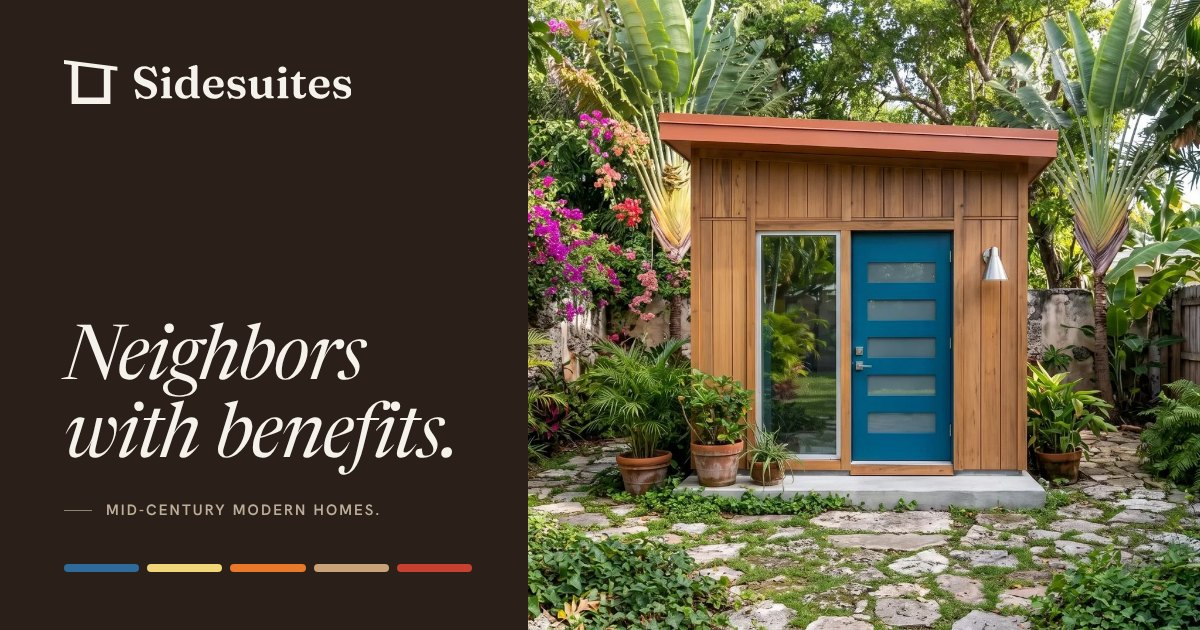
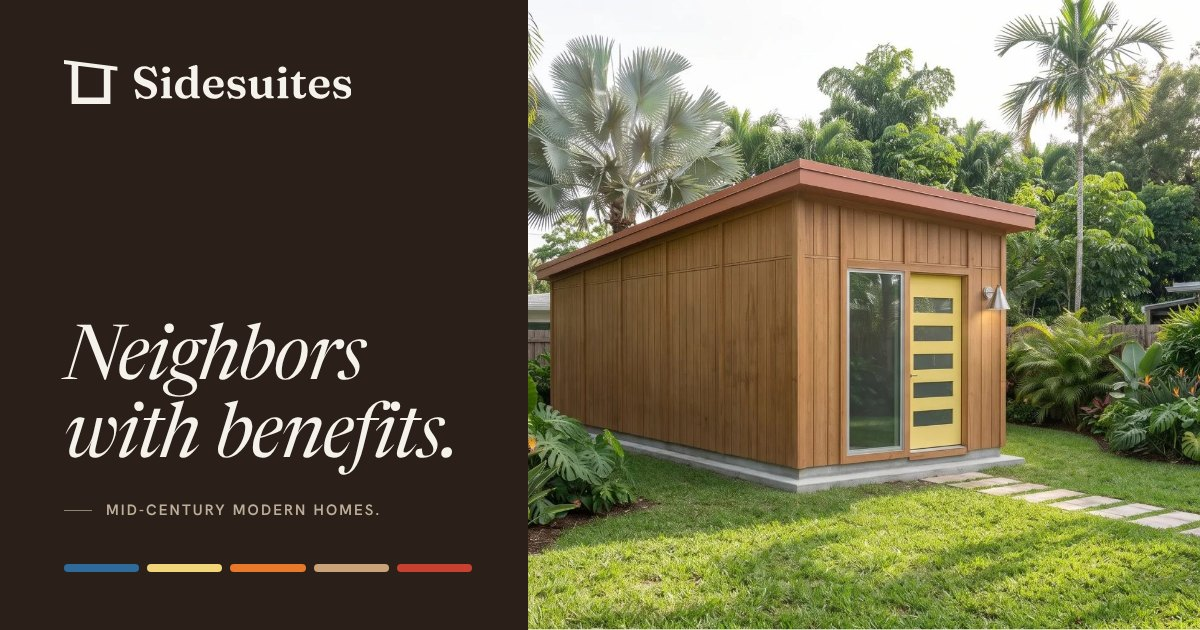
v5: the three front views stay in the door-colour picker; share image is the angled yellow-door yard view
Owner: the red, yellow and blue straight-on views belong to the picker only. The team page and the
cost guide now use the angled door close-up (team crop keeps the window, door and light in frame),
and the share image pairs the walnut panel with the angled yard view; og/twitter alt updated on every
page and in build_map.py.

Claude-Session: https://claude.ai/code/session_01LV1ubYU6MzUbK5oPFJ9ESm

diff --git a/team/index.html b/team/index.html
@@ -18,12 +18,12 @@
 <meta property="og:image" content="https://toolystructures.com/img/sidesuite-og.jpg">
 <meta property="og:image:width" content="1200">
 <meta property="og:image:height" content="630">
-<meta property="og:image:alt" content="The Sidesuites logo, the lines Neighbors with benefits and Mid-century modern homes, and five color swatches on a walnut panel, beside a Sidesuite seen straight on: wood siding, a terracotta roof and a blue door, in a garden of stone paths, bougainvillea and potted palms.">
+<meta property="og:image:alt" content="The Sidesuites logo, the lines Neighbors with benefits and Mid-century modern homes, and five color swatches on a walnut panel, beside a Sidesuite in a Florida backyard: wood siding, a terracotta roof and a butter-yellow door, with stepping stones across the lawn and palms all around.">
 <meta name="twitter:card" content="summary_large_image">
 <meta name="twitter:title" content="Team · Sidesuite">
 <meta name="twitter:description" content="The people behind Sidesuite: a small team in Miami, Florida, building backyard homes as a Sailed Homes partner.">
 <meta name="twitter:image" content="https://toolystructures.com/img/sidesuite-og.jpg">
-<meta name="twitter:image:alt" content="The Sidesuites logo, the lines Neighbors with benefits and Mid-century modern homes, and five color swatches on a walnut panel, beside a Sidesuite seen straight on: wood siding, a terracotta roof and a blue door, in a garden of stone paths, bougainvillea and potted palms.">
+<meta name="twitter:image:alt" content="The Sidesuites logo, the lines Neighbors with benefits and Mid-century modern homes, and five color swatches on a walnut panel, beside a Sidesuite in a Florida backyard: wood siding, a terracotta roof and a butter-yellow door, with stepping stones across the lawn and palms all around.">
 <script type="application/ld+json">
 {"@context":"https://schema.org","@type":"AboutPage","name":"Team · Sidesuite","url":"https://toolystructures.com/team/","description":"The people behind Sidesuite: a small team in Miami, Florida, building backyard homes as a Sailed Homes partner.","isPartOf":{"@type":"WebSite","name":"Sidesuite","url":"https://toolystructures.com/"}}
 </script>
@@ -71,7 +71,7 @@ p{margin:0}
 .t-hero .lead{margin-top:clamp(1.1rem,2.4vw,1.5rem)}
 .t-photo{margin:0;min-width:0}
 .t-photo picture{display:block;aspect-ratio:1;border-radius:var(--r-lg);overflow:hidden;background:var(--paper-2)}
-.t-photo img{width:100%;height:100%;object-fit:cover;object-position:49% 50%}   /* the house sits on the photo's centre line */
+.t-photo img{width:100%;height:100%;object-fit:cover;object-position:25% 50%}   /* keep the window, the door and the light in frame; the long side runs off to the right */
 @media (min-width:700px) and (max-width:1023.98px){.t-photo picture{aspect-ratio:4/3}}
 @media (min-width:1024px){
   .t-hero .cols{align-items:stretch}
@@ -177,8 +177,8 @@ html[lang="es"] .partner h2{text-wrap:balance}
       </div>
       <figure class="t-photo">
         <picture>
-          <source type="image/webp" srcset="/img/home/sidesuite-front-blue-640.webp 640w, /img/home/sidesuite-front-blue-960.webp 960w, /img/home/sidesuite-front-blue-1440.webp 1440w" sizes="(min-width: 1440px) 1100px, (min-width: 1024px) 78vw, (min-width: 700px) 90vw, calc((100vw - 48px) * 1.34)">
-          <img src="/img/home/sidesuite-front-blue-960.jpg" srcset="/img/home/sidesuite-front-blue-640.jpg 640w, /img/home/sidesuite-front-blue-960.jpg 960w, /img/home/sidesuite-front-blue-1440.jpg 1440w" sizes="(min-width: 1440px) 1100px, (min-width: 1024px) 78vw, (min-width: 700px) 90vw, calc((100vw - 48px) * 1.34)" width="1440" height="1075" fetchpriority="high" decoding="async" alt="A Sidesuite seen straight on: vertical wood boards, a terracotta roof, a blue door with five glass panes, a window beside the door and a modern exterior light, in a garden of stone paths, potted plants, bougainvillea and palms" data-i18n-alt="alt_front_blue">
+          <source type="image/webp" srcset="/img/home/sidesuite-door-640.webp 640w, /img/home/sidesuite-door-960.webp 960w, /img/home/sidesuite-door-1500.webp 1500w, /img/home/sidesuite-door-2000.webp 2000w" sizes="(min-width: 1440px) 1100px, (min-width: 1024px) 78vw, (min-width: 700px) 90vw, calc((100vw - 48px) * 1.34)">
+          <img src="/img/home/sidesuite-door-1500.jpg" srcset="/img/home/sidesuite-door-640.jpg 640w, /img/home/sidesuite-door-960.jpg 960w, /img/home/sidesuite-door-1500.jpg 1500w, /img/home/sidesuite-door-2000.jpg 2000w" sizes="(min-width: 1440px) 1100px, (min-width: 1024px) 78vw, (min-width: 700px) 90vw, calc((100vw - 48px) * 1.34)" width="2000" height="1116" fetchpriority="high" decoding="async" alt="The front of a Sidesuite: the butter-yellow door with five glass panes, a window beside the door and a modern exterior light on the wood siding" data-i18n-alt="alt_door">
         </picture>
       </figure>
     </div>
@@ -299,7 +299,7 @@ var ES={
 };
 var ES_ARIA={brand_aria:'Sidesuites, inicio', nav_aria:'Principal', menu_aria:'Menú', foot_aria:'Pie de página'};
 /* photo alt text */
-var ES_ALT={alt_front_blue:'Una Sidesuite de frente: tablas de madera verticales, un techo terracota, una puerta azul con cinco cristales, una ventana junto a la puerta y una luz exterior moderna, en un jardín con senderos de piedra, plantas en macetas, buganvillas y palmeras'};
+var ES_ALT={alt_door:'El frente de una Sidesuite: la puerta amarillo mantequilla con cinco cristales, una ventana junto a la puerta y una luz exterior moderna sobre el revestimiento de madera'};
 var UI={
   en:{title:'Team · Sidesuite', copied:'Copied', copied_live:'Email address copied.', copy_fail:'Copy is not available here. The address is selected, so you can copy it yourself.', lang_text:'ES', lang_label:'ES, cambiar a español', lang_lang:'es'},
   es:{title:'Equipo · Sidesuite', copied:'Copiado', copied_live:'Correo copiado.', copy_fail:'No se puede copiar desde aquí. La dirección está seleccionada para que la copies.', lang_text:'EN', lang_label:'EN, switch to English', lang_lang:'en'}

diff --git a/adu-cost/index.html b/adu-cost/index.html
@@ -17,12 +17,12 @@
 <meta property="og:image" content="https://toolystructures.com/img/sidesuite-og.jpg">
 <meta property="og:image:width" content="1200">
 <meta property="og:image:height" content="630">
-<meta property="og:image:alt" content="The Sidesuites logo, the lines Neighbors with benefits and Mid-century modern homes, and five color swatches on a walnut panel, beside a Sidesuite seen straight on: wood siding, a terracotta roof and a blue door, in a garden of stone paths, bougainvillea and potted palms.">
+<meta property="og:image:alt" content="The Sidesuites logo, the lines Neighbors with benefits and Mid-century modern homes, and five color swatches on a walnut panel, beside a Sidesuite in a Florida backyard: wood siding, a terracotta roof and a butter-yellow door, with stepping stones across the lawn and palms all around.">
 <meta name="twitter:card" content="summary_large_image">
 <meta name="twitter:title" content="How Much Does an ADU Cost in Florida? (2026)">
 <meta name="twitter:description" content="What an accessory dwelling unit actually costs to build in Florida in 2026. Sidesuite is $99,999 for the finished home, plus installation.">
 <meta name="twitter:image" content="https://toolystructures.com/img/sidesuite-og.jpg">
-<meta name="twitter:image:alt" content="The Sidesuites logo, the lines Neighbors with benefits and Mid-century modern homes, and five color swatches on a walnut panel, beside a Sidesuite seen straight on: wood siding, a terracotta roof and a blue door, in a garden of stone paths, bougainvillea and potted palms.">
+<meta name="twitter:image:alt" content="The Sidesuites logo, the lines Neighbors with benefits and Mid-century modern homes, and five color swatches on a walnut panel, beside a Sidesuite in a Florida backyard: wood siding, a terracotta roof and a butter-yellow door, with stepping stones across the lawn and palms all around.">
 <script type="application/ld+json">
 {
   "@context": "https://schema.org",
@@ -92,8 +92,8 @@
     </div>
     <figure class="page-photo page-photo--front">
       <picture>
-        <source type="image/webp" srcset="/img/home/sidesuite-front-blue-640.webp 640w, /img/home/sidesuite-front-blue-960.webp 960w, /img/home/sidesuite-front-blue-1440.webp 1440w" sizes="(min-width: 1440px) 1280px, (min-width: 1024px) 92vw, 100vw">
-        <img src="/img/home/sidesuite-front-blue-1440.jpg" srcset="/img/home/sidesuite-front-blue-640.jpg 640w, /img/home/sidesuite-front-blue-960.jpg 960w, /img/home/sidesuite-front-blue-1440.jpg 1440w" sizes="(min-width: 1440px) 1280px, (min-width: 1024px) 92vw, 100vw" width="1440" height="1075" alt="A Sidesuite seen straight on: vertical wood siding, a terracotta roof, a blue door with five glass panes, a window beside the door and a modern exterior light, in a garden of stone paths, potted plants, bougainvillea and palms" decoding="async" fetchpriority="high">
+        <source type="image/webp" srcset="/img/home/sidesuite-door-640.webp 640w, /img/home/sidesuite-door-960.webp 960w, /img/home/sidesuite-door-1500.webp 1500w, /img/home/sidesuite-door-2000.webp 2000w" sizes="(min-width: 1440px) 1280px, (min-width: 1024px) 92vw, 100vw">
+        <img src="/img/home/sidesuite-door-1500.jpg" srcset="/img/home/sidesuite-door-640.jpg 640w, /img/home/sidesuite-door-960.jpg 960w, /img/home/sidesuite-door-1500.jpg 1500w, /img/home/sidesuite-door-2000.jpg 2000w" sizes="(min-width: 1440px) 1280px, (min-width: 1024px) 92vw, 100vw" width="2000" height="1116" alt="The front of a Sidesuite: the butter-yellow door with five glass panes, a window beside the door and a modern exterior light on the wood siding" decoding="async" fetchpriority="high">
       </picture>
     </figure>
   </div>

diff --git a/check-my-lot/index.html b/check-my-lot/index.html
@@ -23,12 +23,12 @@
 <meta property="og:image" content="https://toolystructures.com/img/sidesuite-og.jpg">
 <meta property="og:image:width" content="1200">
 <meta property="og:image:height" content="630">
-<meta property="og:image:alt" content="The Sidesuites logo, the lines Neighbors with benefits and Mid-century modern homes, and five color swatches on a walnut panel, beside a Sidesuite seen straight on: wood siding, a terracotta roof and a blue door, in a garden of stone paths, bougainvillea and potted palms.">
+<meta property="og:image:alt" content="The Sidesuites logo, the lines Neighbors with benefits and Mid-century modern homes, and five color swatches on a walnut panel, beside a Sidesuite in a Florida backyard: wood siding, a terracotta roof and a butter-yellow door, with stepping stones across the lawn and palms all around.">
 <meta name="twitter:card" content="summary_large_image">
 <meta name="twitter:title" content="Check My Lot · Sidesuite">
 <meta name="twitter:description" content="Free and instant: see if a Sidesuite backyard home fits your lot. Any address in Miami-Dade or Broward. We check zoning, the lot and the city's rules.">
 <meta name="twitter:image" content="https://toolystructures.com/img/sidesuite-og.jpg">
-<meta name="twitter:image:alt" content="The Sidesuites logo, the lines Neighbors with benefits and Mid-century modern homes, and five color swatches on a walnut panel, beside a Sidesuite seen straight on: wood siding, a terracotta roof and a blue door, in a garden of stone paths, bougainvillea and potted palms.">
+<meta name="twitter:image:alt" content="The Sidesuites logo, the lines Neighbors with benefits and Mid-century modern homes, and five color swatches on a walnut panel, beside a Sidesuite in a Florida backyard: wood siding, a terracotta roof and a butter-yellow door, with stepping stones across the lawn and palms all around.">
 <script type="application/ld+json">{"@context": "https://schema.org", "@type": "WebApplication", "name": "Check My Lot", "url": "https://toolystructures.com/check-my-lot/", "description": "Free and instant: see if a Sidesuite backyard home fits your lot. Any address in Miami-Dade or Broward. We check zoning, the lot and the city's rules.", "applicationCategory": "UtilitiesApplication", "operatingSystem": "Any", "offers": {"@type": "Offer", "price": "0", "priceCurrency": "USD"}, "provider": {"@type": "Organization", "name": "Sidesuite", "url": "https://toolystructures.com/"}}</script>
 <script>document.documentElement.classList.add('js');/* iOS Safari shows :active press states only when a touch listener exists */document.addEventListener('touchstart',function(){},{passive:true})</script>
 

diff --git a/adu-laws-florida/index.html b/adu-laws-florida/index.html
@@ -17,12 +17,12 @@
 <meta property="og:image" content="https://toolystructures.com/img/sidesuite-og.jpg">
 <meta property="og:image:width" content="1200">
 <meta property="og:image:height" content="630">
-<meta property="og:image:alt" content="The Sidesuites logo, the lines Neighbors with benefits and Mid-century modern homes, and five color swatches on a walnut panel, beside a Sidesuite seen straight on: wood siding, a terracotta roof and a blue door, in a garden of stone paths, bougainvillea and potted palms.">
+<meta property="og:image:alt" content="The Sidesuites logo, the lines Neighbors with benefits and Mid-century modern homes, and five color swatches on a walnut panel, beside a Sidesuite in a Florida backyard: wood siding, a terracotta roof and a butter-yellow door, with stepping stones across the lawn and palms all around.">
 <meta name="twitter:card" content="summary_large_image">
 <meta name="twitter:title" content="Are ADUs Legal in Florida? (2026 Update)">
 <meta name="twitter:description" content="Florida ADU law in 2026: Statute 163.31771 and the county-by-county picture.">
 <meta name="twitter:image" content="https://toolystructures.com/img/sidesuite-og.jpg">
-<meta name="twitter:image:alt" content="The Sidesuites logo, the lines Neighbors with benefits and Mid-century modern homes, and five color swatches on a walnut panel, beside a Sidesuite seen straight on: wood siding, a terracotta roof and a blue door, in a garden of stone paths, bougainvillea and potted palms.">
+<meta name="twitter:image:alt" content="The Sidesuites logo, the lines Neighbors with benefits and Mid-century modern homes, and five color swatches on a walnut panel, beside a Sidesuite in a Florida backyard: wood siding, a terracotta roof and a butter-yellow door, with stepping stones across the lawn and palms all around.">
 <script>document.documentElement.classList.add('js');/* iOS Safari shows :active press states only when a touch listener exists */document.addEventListener('touchstart',function(){},{passive:true})</script>
 <link rel="preconnect" href="https://fonts.googleapis.com"><link rel="preconnect" href="https://fonts.gstatic.com" crossorigin>
 <link rel="stylesheet" href="https://fonts.googleapis.com/css2?family=Hanken+Grotesk:ital,wght@0,400..700;1,400&family=Newsreader:ital,opsz,wght@0,6..72,300..600;1,6..72,300..600&display=swap">

diff --git a/adu-financing/index.html b/adu-financing/index.html
@@ -17,12 +17,12 @@
 <meta property="og:image" content="https://toolystructures.com/img/sidesuite-og.jpg">
 <meta property="og:image:width" content="1200">
 <meta property="og:image:height" content="630">
-<meta property="og:image:alt" content="The Sidesuites logo, the lines Neighbors with benefits and Mid-century modern homes, and five color swatches on a walnut panel, beside a Sidesuite seen straight on: wood siding, a terracotta roof and a blue door, in a garden of stone paths, bougainvillea and potted palms.">
+<meta property="og:image:alt" content="The Sidesuites logo, the lines Neighbors with benefits and Mid-century modern homes, and five color swatches on a walnut panel, beside a Sidesuite in a Florida backyard: wood siding, a terracotta roof and a butter-yellow door, with stepping stones across the lawn and palms all around.">
 <meta name="twitter:card" content="summary_large_image">
 <meta name="twitter:title" content="How to Finance an ADU in Florida (2026 Guide)">
 <meta name="twitter:description" content="Every way to finance an accessory dwelling unit in Florida.">
 <meta name="twitter:image" content="https://toolystructures.com/img/sidesuite-og.jpg">
-<meta name="twitter:image:alt" content="The Sidesuites logo, the lines Neighbors with benefits and Mid-century modern homes, and five color swatches on a walnut panel, beside a Sidesuite seen straight on: wood siding, a terracotta roof and a blue door, in a garden of stone paths, bougainvillea and potted palms.">
+<meta name="twitter:image:alt" content="The Sidesuites logo, the lines Neighbors with benefits and Mid-century modern homes, and five color swatches on a walnut panel, beside a Sidesuite in a Florida backyard: wood siding, a terracotta roof and a butter-yellow door, with stepping stones across the lawn and palms all around.">
 <script>document.documentElement.classList.add('js');/* iOS Safari shows :active press states only when a touch listener exists */document.addEventListener('touchstart',function(){},{passive:true})</script>
 <link rel="preconnect" href="https://fonts.googleapis.com"><link rel="preconnect" href="https://fonts.gstatic.com" crossorigin>
 <link rel="stylesheet" href="https://fonts.googleapis.com/css2?family=Hanken+Grotesk:ital,wght@0,400..700;1,400&family=Newsreader:ital,opsz,wght@0,6..72,300..600;1,6..72,300..600&display=swap">

diff --git a/adu-rental-income/index.html b/adu-rental-income/index.html
@@ -17,12 +17,12 @@
 <meta property="og:image" content="https://toolystructures.com/img/sidesuite-og.jpg">
 <meta property="og:image:width" content="1200">
 <meta property="og:image:height" content="630">
-<meta property="og:image:alt" content="The Sidesuites logo, the lines Neighbors with benefits and Mid-century modern homes, and five color swatches on a walnut panel, beside a Sidesuite seen straight on: wood siding, a terracotta roof and a blue door, in a garden of stone paths, bougainvillea and potted palms.">
+<meta property="og:image:alt" content="The Sidesuites logo, the lines Neighbors with benefits and Mid-century modern homes, and five color swatches on a walnut panel, beside a Sidesuite in a Florida backyard: wood siding, a terracotta roof and a butter-yellow door, with stepping stones across the lawn and palms all around.">
 <meta name="twitter:card" content="summary_large_image">
 <meta name="twitter:title" content="What Can You Earn Renting an ADU in Florida?">
 <meta name="twitter:description" content="Florida ADU rental income, ROI, and cash flow math by metro.">
 <meta name="twitter:image" content="https://toolystructures.com/img/sidesuite-og.jpg">
-<meta name="twitter:image:alt" content="The Sidesuites logo, the lines Neighbors with benefits and Mid-century modern homes, and five color swatches on a walnut panel, beside a Sidesuite seen straight on: wood siding, a terracotta roof and a blue door, in a garden of stone paths, bougainvillea and potted palms.">
+<meta name="twitter:image:alt" content="The Sidesuites logo, the lines Neighbors with benefits and Mid-century modern homes, and five color swatches on a walnut panel, beside a Sidesuite in a Florida backyard: wood siding, a terracotta roof and a butter-yellow door, with stepping stones across the lawn and palms all around.">
 <script>document.documentElement.classList.add('js');/* iOS Safari shows :active press states only when a touch listener exists */document.addEventListener('touchstart',function(){},{passive:true})</script>
 <link rel="preconnect" href="https://fonts.googleapis.com"><link rel="preconnect" href="https://fonts.gstatic.com" crossorigin>
 <link rel="stylesheet" href="https://fonts.googleapis.com/css2?family=Hanken+Grotesk:ital,wght@0,400..700;1,400&family=Newsreader:ital,opsz,wght@0,6..72,300..600;1,6..72,300..600&display=swap">

diff --git a/resources/index.html b/resources/index.html
@@ -17,12 +17,12 @@
 <meta property="og:image" content="https://toolystructures.com/img/sidesuite-og.jpg">
 <meta property="og:image:width" content="1200">
 <meta property="og:image:height" content="630">
-<meta property="og:image:alt" content="The Sidesuites logo, the lines Neighbors with benefits and Mid-century modern homes, and five color swatches on a walnut panel, beside a Sidesuite seen straight on: wood siding, a terracotta roof and a blue door, in a garden of stone paths, bougainvillea and potted palms.">
+<meta property="og:image:alt" content="The Sidesuites logo, the lines Neighbors with benefits and Mid-century modern homes, and five color swatches on a walnut panel, beside a Sidesuite in a Florida backyard: wood siding, a terracotta roof and a butter-yellow door, with stepping stones across the lawn and palms all around.">
 <meta name="twitter:card" content="summary_large_image">
 <meta name="twitter:title" content="ADU Resources &amp; Guides | Sidesuite">
 <meta name="twitter:description" content="Every Sidesuite guide in one place.">
 <meta name="twitter:image" content="https://toolystructures.com/img/sidesuite-og.jpg">
-<meta name="twitter:image:alt" content="The Sidesuites logo, the lines Neighbors with benefits and Mid-century modern homes, and five color swatches on a walnut panel, beside a Sidesuite seen straight on: wood siding, a terracotta roof and a blue door, in a garden of stone paths, bougainvillea and potted palms.">
+<meta name="twitter:image:alt" content="The Sidesuites logo, the lines Neighbors with benefits and Mid-century modern homes, and five color swatches on a walnut panel, beside a Sidesuite in a Florida backyard: wood siding, a terracotta roof and a butter-yellow door, with stepping stones across the lawn and palms all around.">
 <script>document.documentElement.classList.add('js');/* iOS Safari shows :active press states only when a touch listener exists */document.addEventListener('touchstart',function(){},{passive:true})</script>
 <link rel="preconnect" href="https://fonts.googleapis.com"><link rel="preconnect" href="https://fonts.gstatic.com" crossorigin>
 <link rel="stylesheet" href="https://fonts.googleapis.com/css2?family=Hanken+Grotesk:ital,wght@0,400..700;1,400&family=Newsreader:ital,opsz,wght@0,6..72,300..600;1,6..72,300..600&display=swap">

diff --git a/adu-florida/index.html b/adu-florida/index.html
@@ -17,12 +17,12 @@
 <meta property="og:image" content="https://toolystructures.com/img/sidesuite-og.jpg">
 <meta property="og:image:width" content="1200">
 <meta property="og:image:height" content="630">
-<meta property="og:image:alt" content="The Sidesuites logo, the lines Neighbors with benefits and Mid-century modern homes, and five color swatches on a walnut panel, beside a Sidesuite seen straight on: wood siding, a terracotta roof and a blue door, in a garden of stone paths, bougainvillea and potted palms.">
+<meta property="og:image:alt" content="The Sidesuites logo, the lines Neighbors with benefits and Mid-century modern homes, and five color swatches on a walnut panel, beside a Sidesuite in a Florida backyard: wood siding, a terracotta roof and a butter-yellow door, with stepping stones across the lawn and palms all around.">
 <meta name="twitter:card" content="summary_large_image">
 <meta name="twitter:title" content="ADUs in Florida: The Complete 2026 Guide">
 <meta name="twitter:description" content="Florida&#x27;s ADU rules, costs, financing, and rental potential — the complete category guide from Sidesuite.">
 <meta name="twitter:image" content="https://toolystructures.com/img/sidesuite-og.jpg">
-<meta name="twitter:image:alt" content="The Sidesuites logo, the lines Neighbors with benefits and Mid-century modern homes, and five color swatches on a walnut panel, beside a Sidesuite seen straight on: wood siding, a terracotta roof and a blue door, in a garden of stone paths, bougainvillea and potted palms.">
+<meta name="twitter:image:alt" content="The Sidesuites logo, the lines Neighbors with benefits and Mid-century modern homes, and five color swatches on a walnut panel, beside a Sidesuite in a Florida backyard: wood siding, a terracotta roof and a butter-yellow door, with stepping stones across the lawn and palms all around.">
 <script type="application/ld+json">
 {
   "@context": "https://schema.org",

diff --git a/index.html b/index.html
@@ -20,12 +20,12 @@
 <meta property="og:image" content="https://toolystructures.com/img/sidesuite-og.jpg">
 <meta property="og:image:width" content="1200">
 <meta property="og:image:height" content="630">
-<meta property="og:image:alt" content="The Sidesuites logo, the lines Neighbors with benefits and Mid-century modern homes, and five color swatches on a walnut panel, beside a Sidesuite seen straight on: wood siding, a terracotta roof and a blue door, in a garden of stone paths, bougainvillea and potted palms.">
+<meta property="og:image:alt" content="The Sidesuites logo, the lines Neighbors with benefits and Mid-century modern homes, and five color swatches on a walnut panel, beside a Sidesuite in a Florida backyard: wood siding, a terracotta roof and a butter-yellow door, with stepping stones across the lawn and palms all around.">
 <meta name="twitter:card" content="summary_large_image">
 <meta name="twitter:title" content="Sidesuite · Neighbors with benefits">
 <meta name="twitter:description" content="A 401 sq ft backyard home, $99,999 finished. Building in Miami-Dade & Broward.">
 <meta name="twitter:image" content="https://toolystructures.com/img/sidesuite-og.jpg">
-<meta name="twitter:image:alt" content="The Sidesuites logo, the lines Neighbors with benefits and Mid-century modern homes, and five color swatches on a walnut panel, beside a Sidesuite seen straight on: wood siding, a terracotta roof and a blue door, in a garden of stone paths, bougainvillea and potted palms.">
+<meta name="twitter:image:alt" content="The Sidesuites logo, the lines Neighbors with benefits and Mid-century modern homes, and five color swatches on a walnut panel, beside a Sidesuite in a Florida backyard: wood siding, a terracotta roof and a butter-yellow door, with stepping stones across the lawn and palms all around.">
 <script type="application/ld+json">
 {
   "@context": "https://schema.org",

diff --git a/adu-palm-beach/index.html b/adu-palm-beach/index.html
@@ -17,12 +17,12 @@
 <meta property="og:image" content="https://toolystructures.com/img/sidesuite-og.jpg">
 <meta property="og:image:width" content="1200">
 <meta property="og:image:height" content="630">
-<meta property="og:image:alt" content="The Sidesuites logo, the lines Neighbors with benefits and Mid-century modern homes, and five color swatches on a walnut panel, beside a Sidesuite seen straight on: wood siding, a terracotta roof and a blue door, in a garden of stone paths, bougainvillea and potted palms.">
+<meta property="og:image:alt" content="The Sidesuites logo, the lines Neighbors with benefits and Mid-century modern homes, and five color swatches on a walnut panel, beside a Sidesuite in a Florida backyard: wood siding, a terracotta roof and a butter-yellow door, with stepping stones across the lawn and palms all around.">
 <meta name="twitter:card" content="summary_large_image">
 <meta name="twitter:title" content="ADUs in Palm Beach County: Rules, Costs &amp; Builders">
 <meta name="twitter:description" content="Palm Beach County ADU rules, permits, and rental income.">
 <meta name="twitter:image" content="https://toolystructures.com/img/sidesuite-og.jpg">
-<meta name="twitter:image:alt" content="The Sidesuites logo, the lines Neighbors with benefits and Mid-century modern homes, and five color swatches on a walnut panel, beside a Sidesuite seen straight on: wood siding, a terracotta roof and a blue door, in a garden of stone paths, bougainvillea and potted palms.">
+<meta name="twitter:image:alt" content="The Sidesuites logo, the lines Neighbors with benefits and Mid-century modern homes, and five color swatches on a walnut panel, beside a Sidesuite in a Florida backyard: wood siding, a terracotta roof and a butter-yellow door, with stepping stones across the lawn and palms all around.">
 <script type="application/ld+json">
 {
   "@context": "https://schema.org",

diff --git a/adu-jacksonville/index.html b/adu-jacksonville/index.html
@@ -17,12 +17,12 @@
 <meta property="og:image" content="https://toolystructures.com/img/sidesuite-og.jpg">
 <meta property="og:image:width" content="1200">
 <meta property="og:image:height" content="630">
-<meta property="og:image:alt" content="The Sidesuites logo, the lines Neighbors with benefits and Mid-century modern homes, and five color swatches on a walnut panel, beside a Sidesuite seen straight on: wood siding, a terracotta roof and a blue door, in a garden of stone paths, bougainvillea and potted palms.">
+<meta property="og:image:alt" content="The Sidesuites logo, the lines Neighbors with benefits and Mid-century modern homes, and five color swatches on a walnut panel, beside a Sidesuite in a Florida backyard: wood siding, a terracotta roof and a butter-yellow door, with stepping stones across the lawn and palms all around.">
 <meta name="twitter:card" content="summary_large_image">
 <meta name="twitter:title" content="ADUs in Jacksonville: Rules, Costs &amp; Builders (2026)">
 <meta name="twitter:description" content="Jacksonville ADU rules, permits, and rental income.">
 <meta name="twitter:image" content="https://toolystructures.com/img/sidesuite-og.jpg">
-<meta name="twitter:image:alt" content="The Sidesuites logo, the lines Neighbors with benefits and Mid-century modern homes, and five color swatches on a walnut panel, beside a Sidesuite seen straight on: wood siding, a terracotta roof and a blue door, in a garden of stone paths, bougainvillea and potted palms.">
+<meta name="twitter:image:alt" content="The Sidesuites logo, the lines Neighbors with benefits and Mid-century modern homes, and five color swatches on a walnut panel, beside a Sidesuite in a Florida backyard: wood siding, a terracotta roof and a butter-yellow door, with stepping stones across the lawn and palms all around.">
 <script type="application/ld+json">
 {
   "@context": "https://schema.org",

diff --git a/adu-st-petersburg/index.html b/adu-st-petersburg/index.html
@@ -17,12 +17,12 @@
 <meta property="og:image" content="https://toolystructures.com/img/sidesuite-og.jpg">
 <meta property="og:image:width" content="1200">
 <meta property="og:image:height" content="630">
-<meta property="og:image:alt" content="The Sidesuites logo, the lines Neighbors with benefits and Mid-century modern homes, and five color swatches on a walnut panel, beside a Sidesuite seen straight on: wood siding, a terracotta roof and a blue door, in a garden of stone paths, bougainvillea and potted palms.">
+<meta property="og:image:alt" content="The Sidesuites logo, the lines Neighbors with benefits and Mid-century modern homes, and five color swatches on a walnut panel, beside a Sidesuite in a Florida backyard: wood siding, a terracotta roof and a butter-yellow door, with stepping stones across the lawn and palms all around.">
 <meta name="twitter:card" content="summary_large_image">
 <meta name="twitter:title" content="ADUs in St. Petersburg: Rules, Costs &amp; Builders">
 <meta name="twitter:description" content="St. Petersburg ADU rules, permits, and rental income.">
 <meta name="twitter:image" content="https://toolystructures.com/img/sidesuite-og.jpg">
-<meta name="twitter:image:alt" content="The Sidesuites logo, the lines Neighbors with benefits and Mid-century modern homes, and five color swatches on a walnut panel, beside a Sidesuite seen straight on: wood siding, a terracotta roof and a blue door, in a garden of stone paths, bougainvillea and potted palms.">
+<meta name="twitter:image:alt" content="The Sidesuites logo, the lines Neighbors with benefits and Mid-century modern homes, and five color swatches on a walnut panel, beside a Sidesuite in a Florida backyard: wood siding, a terracotta roof and a butter-yellow door, with stepping stones across the lawn and palms all around.">
 <script type="application/ld+json">
 {
   "@context": "https://schema.org",
